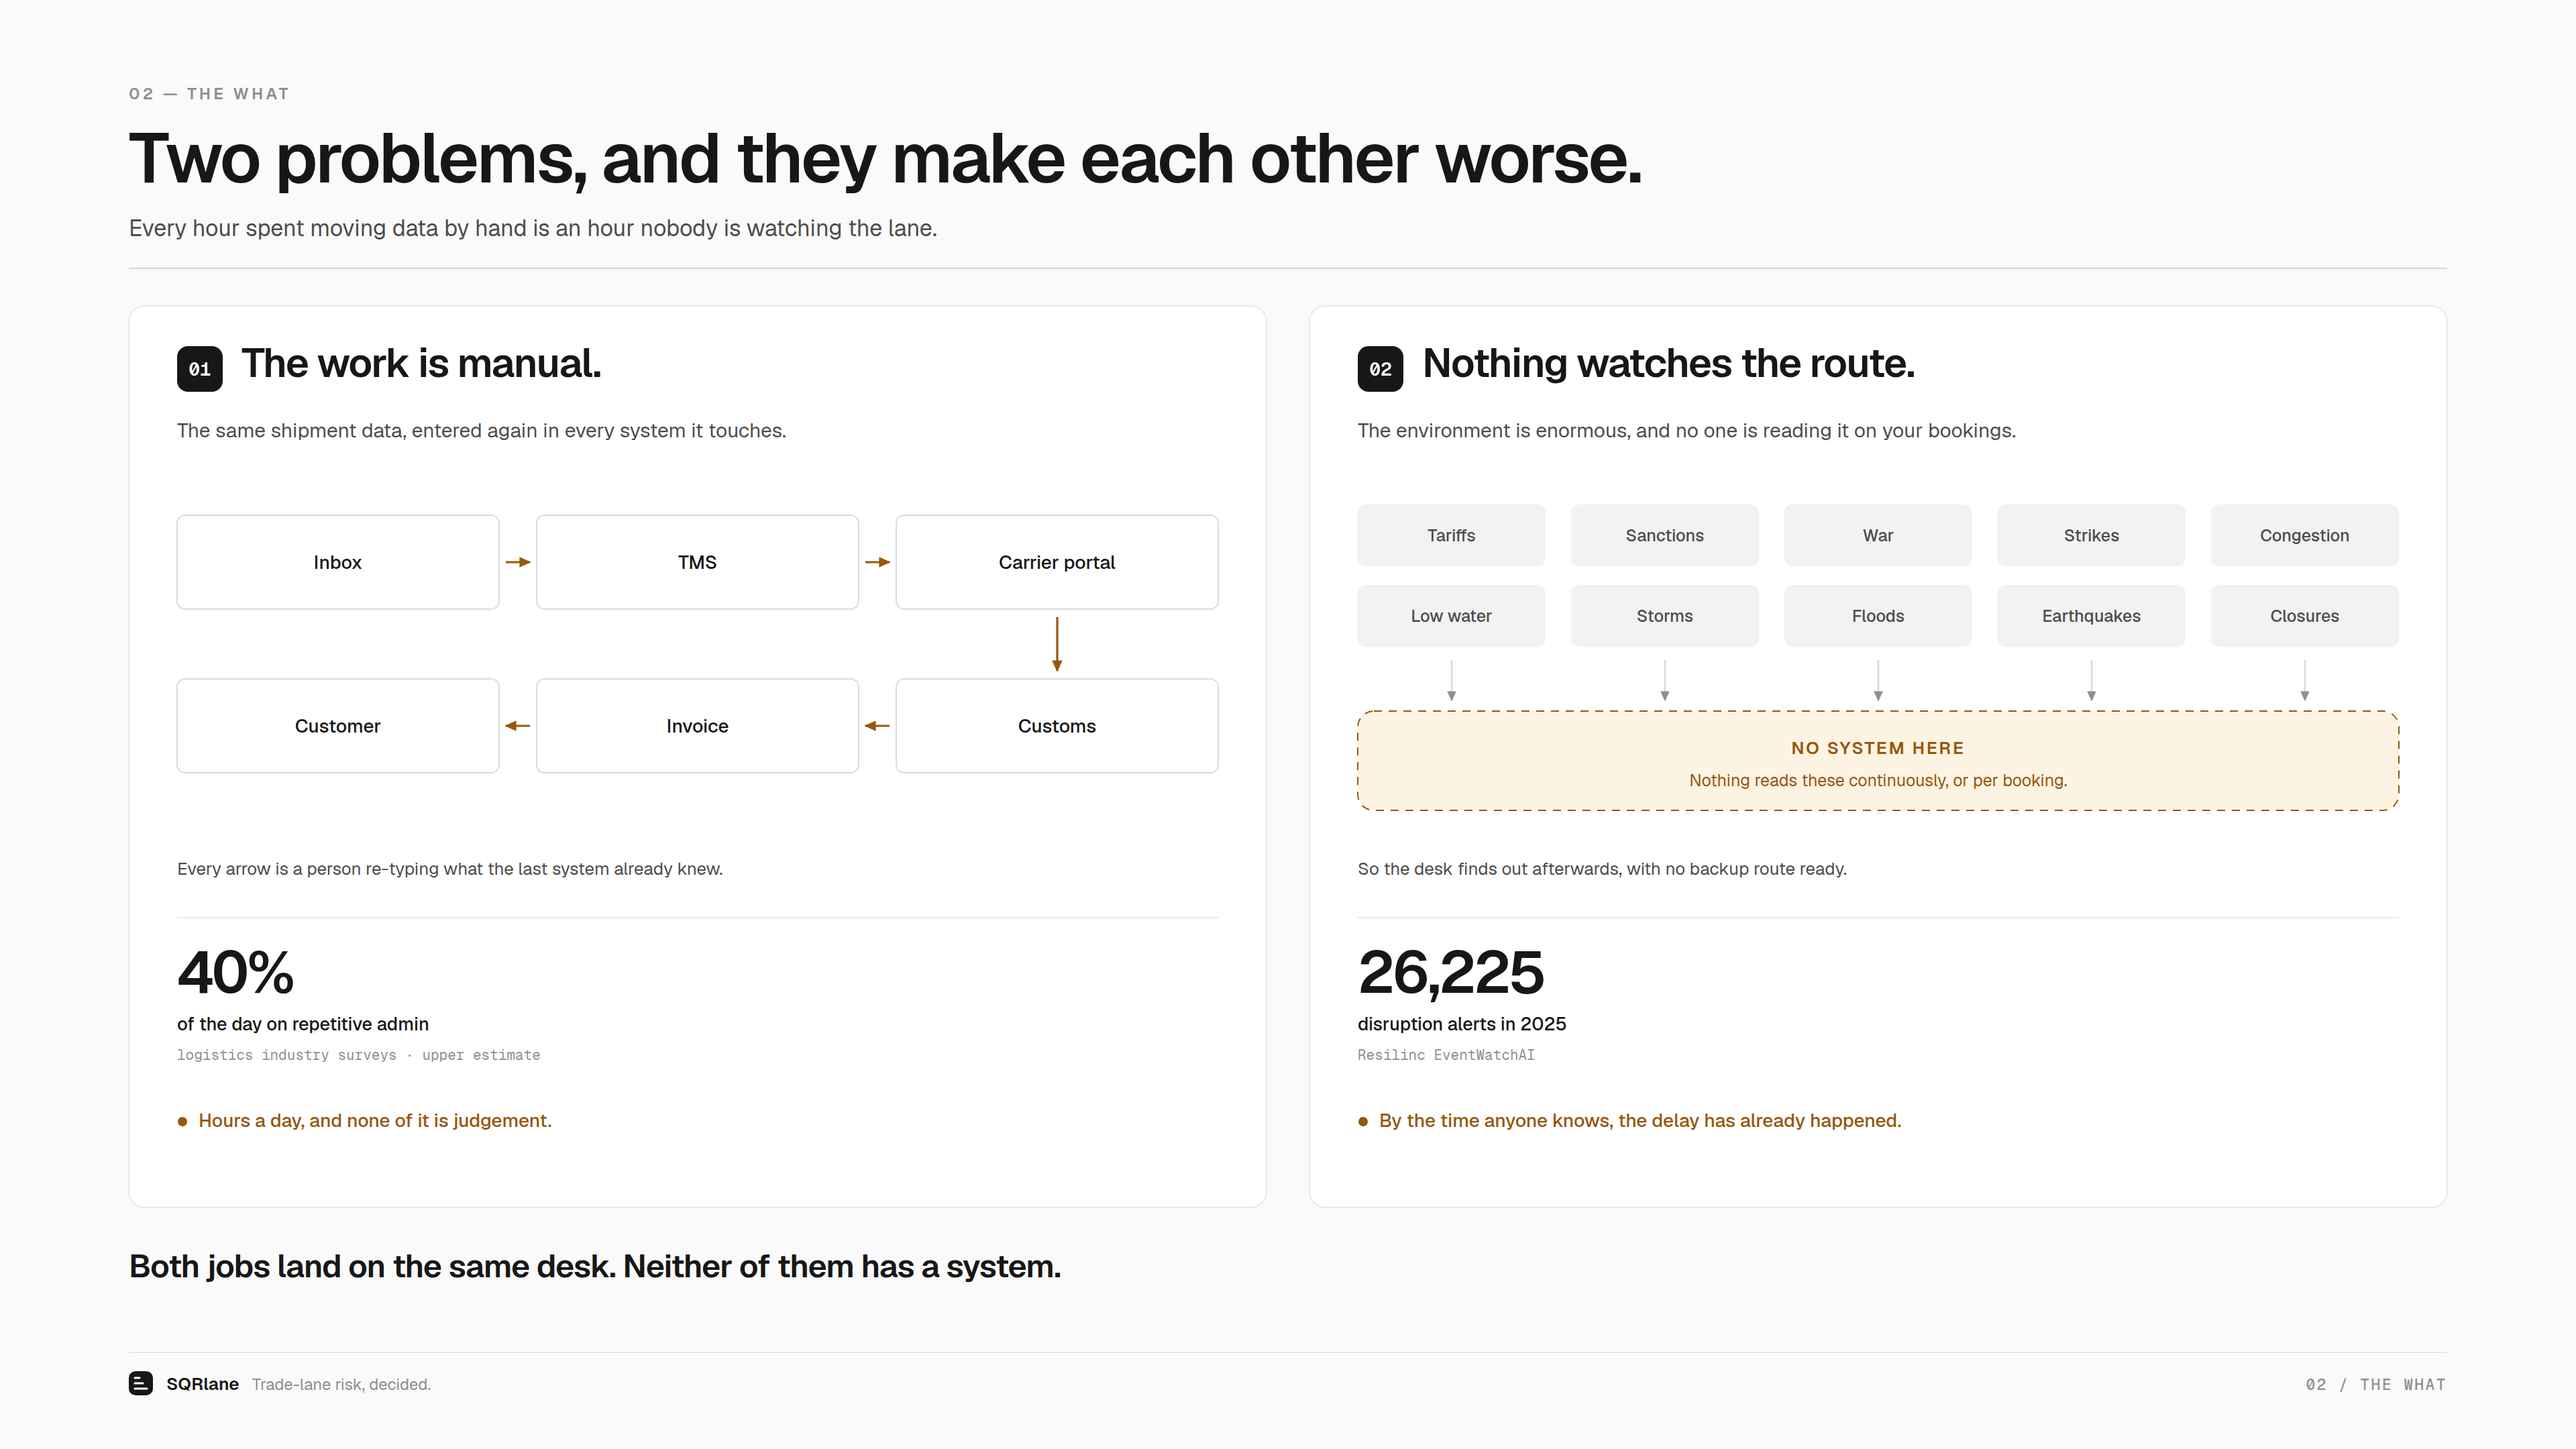
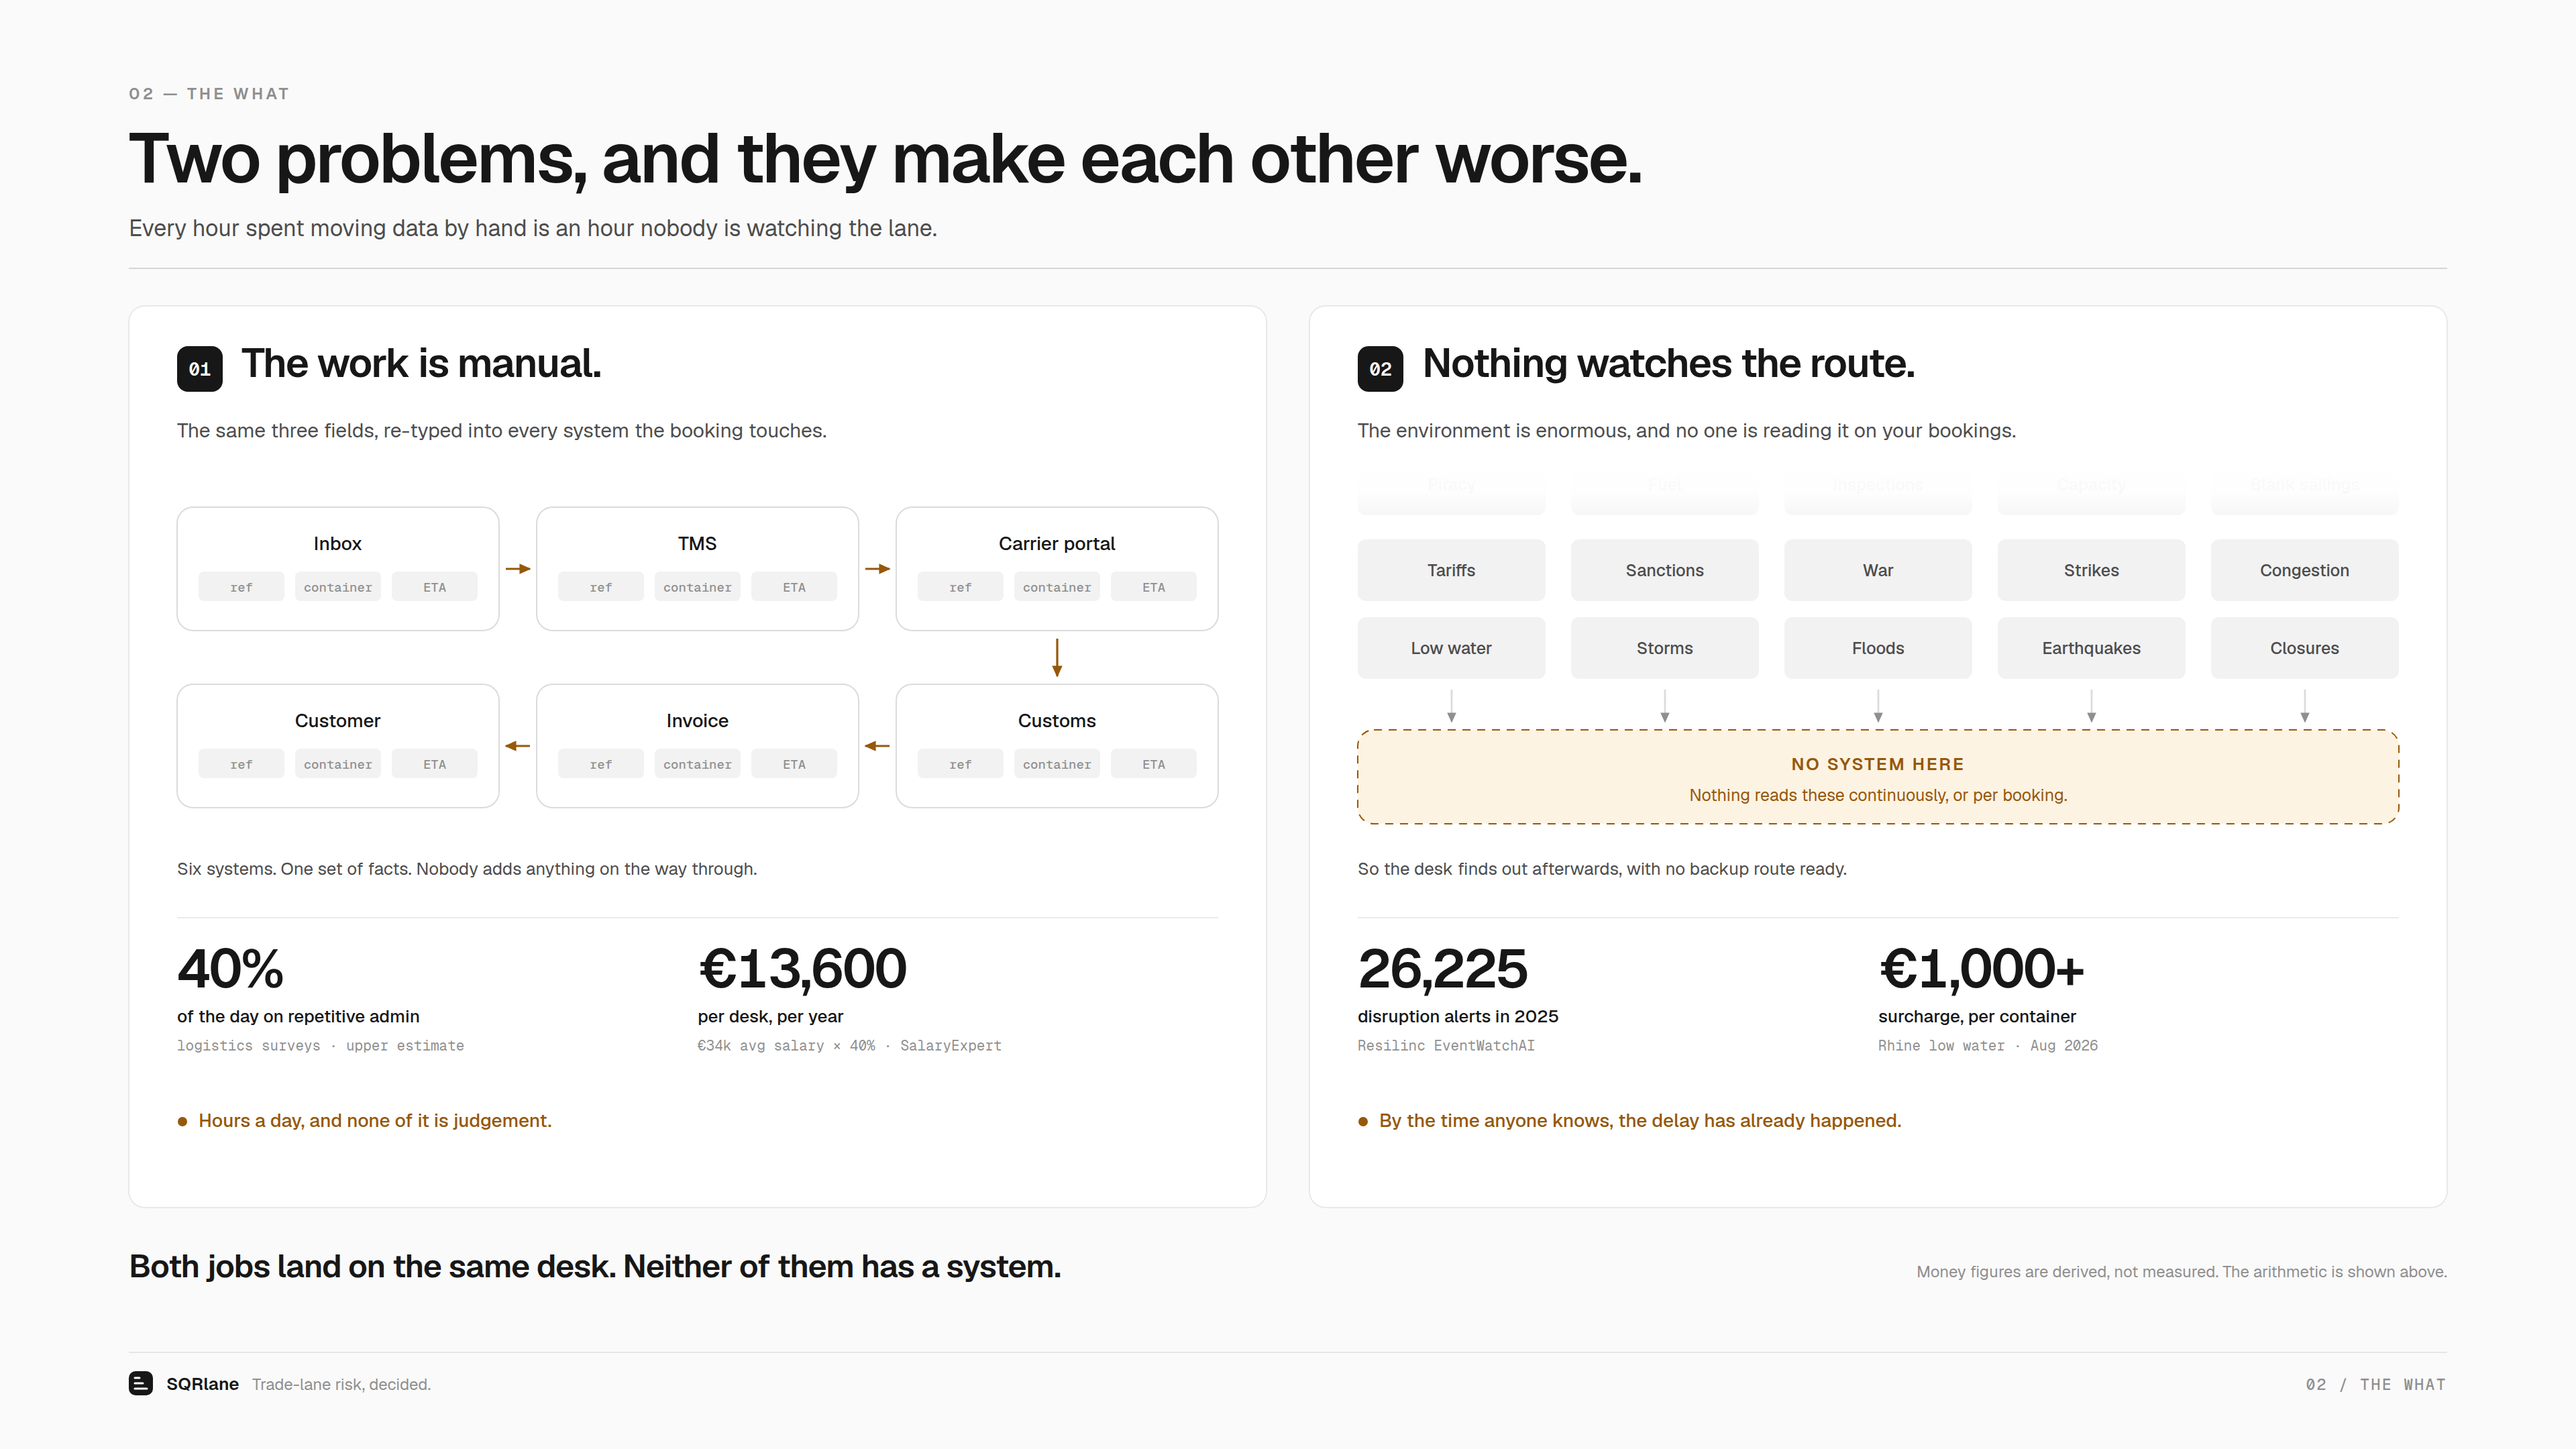
Deck: slide 02 gains money, repetition and a horizon
Ten risk chips read as the whole list. They are a sample, so a ghost row now
runs off the top of the fold under a hard gradient - clipped rather than merely
pale, because a pale complete row still reads as content.

The serpentine was six labelled boxes and said nothing about what makes the work
manual. Each system now carries the same three field pills, ref / container /
ETA, drawn identically six times. The duplication is the graphic; the caption
just names it.

Both folds end in two numbers instead of one, so the time cost has a price
beside it: 40% of the day is EUR 13,600 per desk per year, and a lane breaking
is a surcharge past EUR 1,000 a container. The two money figures are derived
rather than measured, so each carries its arithmetic in the source line and a
note under the fold says so plainly. Overstating either would be the invented
metric this project refuses to produce.

Claude-Session: https://claude.ai/code/session_01CuQZ1wNRwUerJJo7pbi7JH

diff --git a/deck/build_slide_02.py b/deck/build_slide_02.py
@@ -5,28 +5,38 @@ Slide 02 - THE WHAT.  Emits deck/slide-02-the-what.svg at 1920x1080.
 Two folds, deliberately symmetrical so the reader sees "two problems" before
 reading a word:
 
-  01  The work is manual        - the same booking, typed into every system
-  02  Nothing watches the route - the environment is enormous, and no system
-                                  reads it continuously or per booking
+  01  The work is manual        - the same three fields, re-typed into six
+                                  systems; the repetition is the graphic
+  02  Nothing watches the route - ten of the things that move a lane, with a
+                                  faded row above them because ten is a sample,
+                                  not the list - funnelled into an empty slot
 
-The two folds share a spine: badge, title, one line, a diagram, a caption, a
-cited stat, a payoff. Symmetry is the argument.
+Each fold ends in two numbers: what it costs in time, and what that is in money.
+The money figures are DERIVED, not measured, so each one shows its arithmetic
+in the source line. Nothing here is a claim about SQRlane.
 """
 from deckkit import *
 
-s = Slide()
+FADE = f'''<linearGradient id="fade" x1="0" y1="0" x2="0" y2="1">
+  <stop offset="0" stop-color="{CARD}" stop-opacity="1"/>
+  <stop offset="0.62" stop-color="{CARD}" stop-opacity="0.94"/>
+  <stop offset="1" stop-color="{CARD}" stop-opacity="0.28"/>
+</linearGradient>
+'''
+
+s = Slide(extra_defs=FADE)
 s.header("02 — THE WHAT",
          "Two problems, and they make each other worse.",
          "Every hour spent moving data by hand is an hour nobody is watching the lane.")
 
 FY, FH = 228, 672
-FW = (CW - 32) // 2                       # two folds, 32px apart
+FW = (CW - 32) // 2
 F1, F2 = M, M + FW + 32
 PAD = 36
-IW = FW - 2 * PAD                         # inner width of a fold
+IW = FW - 2 * PAD
 
 
-def fold(x, n, title, line, caption, big, big_label, src, payoff):
+def fold(x, n, title, line, caption, stats, payoff):
     s.card(x, FY, FW, FH)
     tx = x + PAD
     s.card(tx, FY + 30, 34, 34, fill=FG, stroke="none", rx=8)
@@ -35,10 +45,12 @@ def fold(x, n, title, line, caption, big, big_label, src, payoff):
     s.text(tx, FY + 98, line, 15, 400, MUTED)
     s.text(tx, FY + 424, caption, 13, 400, MUTED)
     s.line(tx, FY + 456, x + FW - PAD, FY + 456, BORDER)
-    s.raw(f'<text x="{tx}" y="{FY+512}" font-size="44" font-weight="600" fill="{FG}" '
-          f'letter-spacing="-1.4" class="num">{esc(big)}</text>')
-    s.text(tx, FY + 540, big_label, 13.5, 500, FG)
-    s.text(tx, FY + 562, src, 10.5, 400, FAINT, cls="mono")
+    for i, (big, label, src) in enumerate(stats):
+        sx = tx + i * (IW / 2)
+        s.raw(f'<text x="{sx}" y="{FY+508}" font-size="40" font-weight="600" fill="{FG}" '
+              f'letter-spacing="-1.2" class="num">{esc(big)}</text>')
+        s.text(sx, FY + 534, label, 13, 500, FG)
+        s.text(sx, FY + 555, src, 10.5, 400, FAINT, cls="mono")
     s.raw(f'<circle cx="{tx+4}" cy="{FY+608}" r="3.5" fill="{AMBER}"/>')
     s.text(tx + 16, FY + 612, payoff, 14, 500, AMBER)
 
@@ -47,30 +59,42 @@ def fold(x, n, title, line, caption, big, big_label, src, payoff):
 # FOLD 01 - the work is manual
 # =========================================================================
 fold(F1, "01", "The work is manual.",
-     "The same shipment data, entered again in every system it touches.",
-     "Every arrow is a person re-typing what the last system already knew.",
-     "40%", "of the day on repetitive admin", "logistics industry surveys · upper estimate",
+     "The same three fields, re-typed into every system the booking touches.",
+     "Six systems. One set of facts. Nobody adds anything on the way through.",
+     [("40%", "of the day on repetitive admin", "logistics surveys · upper estimate"),
+      ("€13,600", "per desk, per year", "€34k avg salary × 40% · SalaryExpert")],
      "Hours a day, and none of it is judgement.")
 
-BW, BH2, BG_ = 240, 70, 28
-r1y, r2y = FY + 156, FY + 278
-row1 = ["Inbox", "TMS", "Carrier portal"]
-row2 = ["Customer", "Invoice", "Customs"]        # the snake runs back right-to-left
-for i, lab in enumerate(row1):
-    s.chip(F1 + PAD + i * (BW + BG_), r1y, BW, BH2, lab, fs=14,
-           fill=CARD, stroke=BORDER_STRONG, col=FG, weight=500)
-for i, lab in enumerate(row2):
-    s.chip(F1 + PAD + i * (BW + BG_), r2y, BW, BH2, lab, fs=14,
-           fill=CARD, stroke=BORDER_STRONG, col=FG, weight=500)
+BW, BH2, BG_ = 240, 92, 28
+r1y, r2y = FY + 150, FY + 282
+FIELDS = ["ref", "container", "ETA"]
 
-# the five hand-offs, every one of them a re-key
-for i in range(2):                                # row 1, left to right
+
+def system_box(bx, by, name):
+    """Name on top, then the identical three fields underneath. Drawing the
+    same pills six times is the whole point - it is duplication, not work."""
+    s.card(bx, by, BW, BH2, fill=CARD, stroke=BORDER_STRONG)
+    s.text(bx + BW / 2, by + 32, name, 14, 500, FG, anchor="middle")
+    pw, pg = 64, 8
+    x0 = bx + (BW - (3 * pw + 2 * pg)) / 2
+    for i, f in enumerate(FIELDS):
+        px = x0 + i * (pw + pg)
+        s.card(px, by + 48, pw, 22, fill=SURFACE, stroke="none", rx=4)
+        s.text(px + pw / 2, by + 63, f, 9.5, 500, FAINT, anchor="middle", cls="mono")
+
+
+for i, lab in enumerate(["Inbox", "TMS", "Carrier portal"]):
+    system_box(F1 + PAD + i * (BW + BG_), r1y, lab)
+for i, lab in enumerate(["Customer", "Invoice", "Customs"]):
+    system_box(F1 + PAD + i * (BW + BG_), r2y, lab)
+
+for i in range(2):                                    # row 1, left to right
     ax = F1 + PAD + i * (BW + BG_) + BW
     s.line(ax + 5, r1y + BH2 / 2, ax + BG_ - 5, r1y + BH2 / 2, AMBER, 1.6, "ahA")
-for i in range(2):                                # row 2, right to left
+for i in range(2):                                    # row 2, back right to left
     ax = F1 + PAD + (2 - i) * (BW + BG_)
     s.line(ax - 5, r2y + BH2 / 2, ax - BG_ + 5, r2y + BH2 / 2, AMBER, 1.6, "ahA")
-turn_x = F1 + PAD + 2 * (BW + BG_) + BW / 2       # down the right-hand side
+turn_x = F1 + PAD + 2 * (BW + BG_) + BW / 2
 s.line(turn_x, r1y + BH2 + 6, turn_x, r2y - 6, AMBER, 1.6, "ahA")
 
 # =========================================================================
@@ -79,28 +103,39 @@ s.line(turn_x, r1y + BH2 + 6, turn_x, r2y - 6, AMBER, 1.6, "ahA")
 fold(F2, "02", "Nothing watches the route.",
      "The environment is enormous, and no one is reading it on your bookings.",
      "So the desk finds out afterwards, with no backup route ready.",
-     "26,225", "disruption alerts in 2025", "Resilinc EventWatchAI",
+     [("26,225", "disruption alerts in 2025", "Resilinc EventWatchAI"),
+      ("€1,000+", "surcharge, per container", "Rhine low water · Aug 2026")],
      "By the time anyone knows, the delay has already happened.")
 
+CW_, CH_, CG = 140, 46, 19
+GHOST = ["Piracy", "Fuel", "Inspections", "Capacity", "Blank sailings"]
 RISKS = ["Tariffs", "Sanctions", "War", "Strikes", "Congestion",
          "Low water", "Storms", "Floods", "Earthquakes", "Closures"]
-CW_, CH_, CG = 140, 46, 19
-for i, lab in enumerate(RISKS):
-    cx = F2 + PAD + (i % 5) * (CW_ + CG)
-    cy = FY + 148 + (i // 5) * (CH_ + 14)
-    s.chip(cx, cy, CW_, CH_, lab, fs=12.5, fill=SURFACE, col=MUTED)
 
-# everything above funnels down to a slot that is empty
+
+def risk_row(y, labels, col=MUTED):
+    for i, lab in enumerate(labels):
+        s.chip(F2 + PAD + i * (CW_ + CG), y, CW_, CH_, lab, fs=12.5, fill=SURFACE, col=col)
+
+
+# ten is a sample, not the list - so the grid runs off the top of the fold
+risk_row(FY + 110, GHOST, col=FAINT)
+s.raw(f'<rect x="{F2+PAD-4}" y="{FY+106}" width="{IW+8}" height="52" fill="url(#fade)"/>')
+risk_row(FY + 174, RISKS[:5])
+risk_row(FY + 232, RISKS[5:])
+
 for i in range(5):
     fx = F2 + PAD + i * (CW_ + CG) + CW_ / 2
-    s.line(fx, FY + 264, fx, FY + 294, GRAY400, 1.4, "ahN")
-s.card(F2 + PAD, FY + 302, IW, 74, fill=AMBER_BG, stroke=AMBER, dash="6 5")
-s.text(F2 + PAD + IW / 2, FY + 334, "NO SYSTEM HERE", 13, 600, AMBER, anchor="middle", ls=1.4)
-s.text(F2 + PAD + IW / 2, FY + 358, "Nothing reads these continuously, or per booking.",
+    s.line(fx, FY + 286, fx, FY + 310, GRAY400, 1.4, "ahN")
+s.card(F2 + PAD, FY + 316, IW, 70, fill=AMBER_BG, stroke=AMBER, dash="6 5")
+s.text(F2 + PAD + IW / 2, FY + 346, "NO SYSTEM HERE", 13, 600, AMBER, anchor="middle", ls=1.4)
+s.text(F2 + PAD + IW / 2, FY + 369, "Nothing reads these continuously, or per booking.",
        12.5, 400, AMBER, anchor="middle")
 
 # =========================================================================
 s.text(M, 952, "Both jobs land on the same desk. Neither of them has a system.",
        24, 600, FG, ls=-0.5)
+s.text(W - M, 952, "Money figures are derived, not measured. The arithmetic is shown above.",
+       12, 400, FAINT, anchor="end")
 s.footer("02 / THE WHAT")
 s.write("slide-02-the-what.svg")
